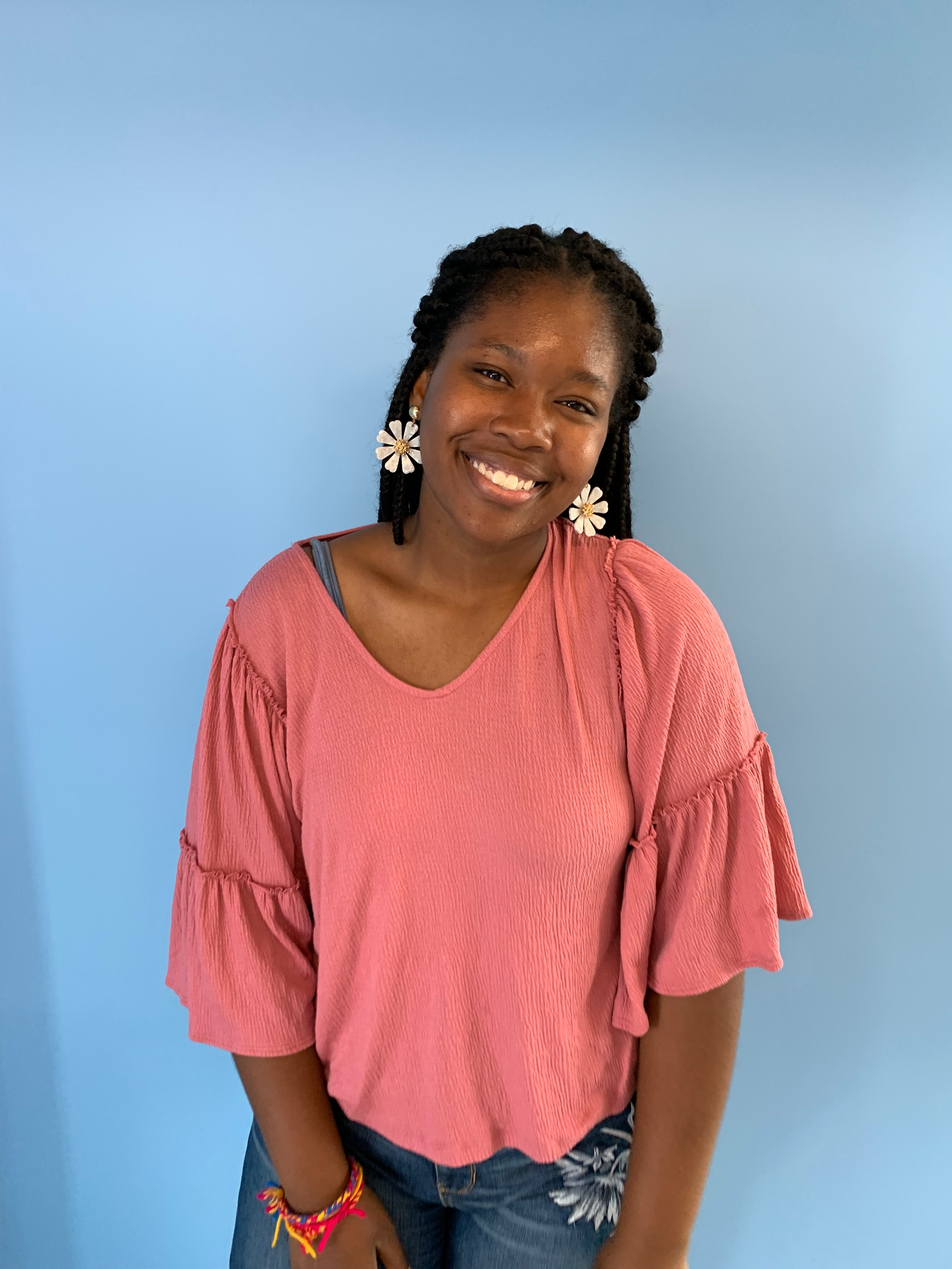
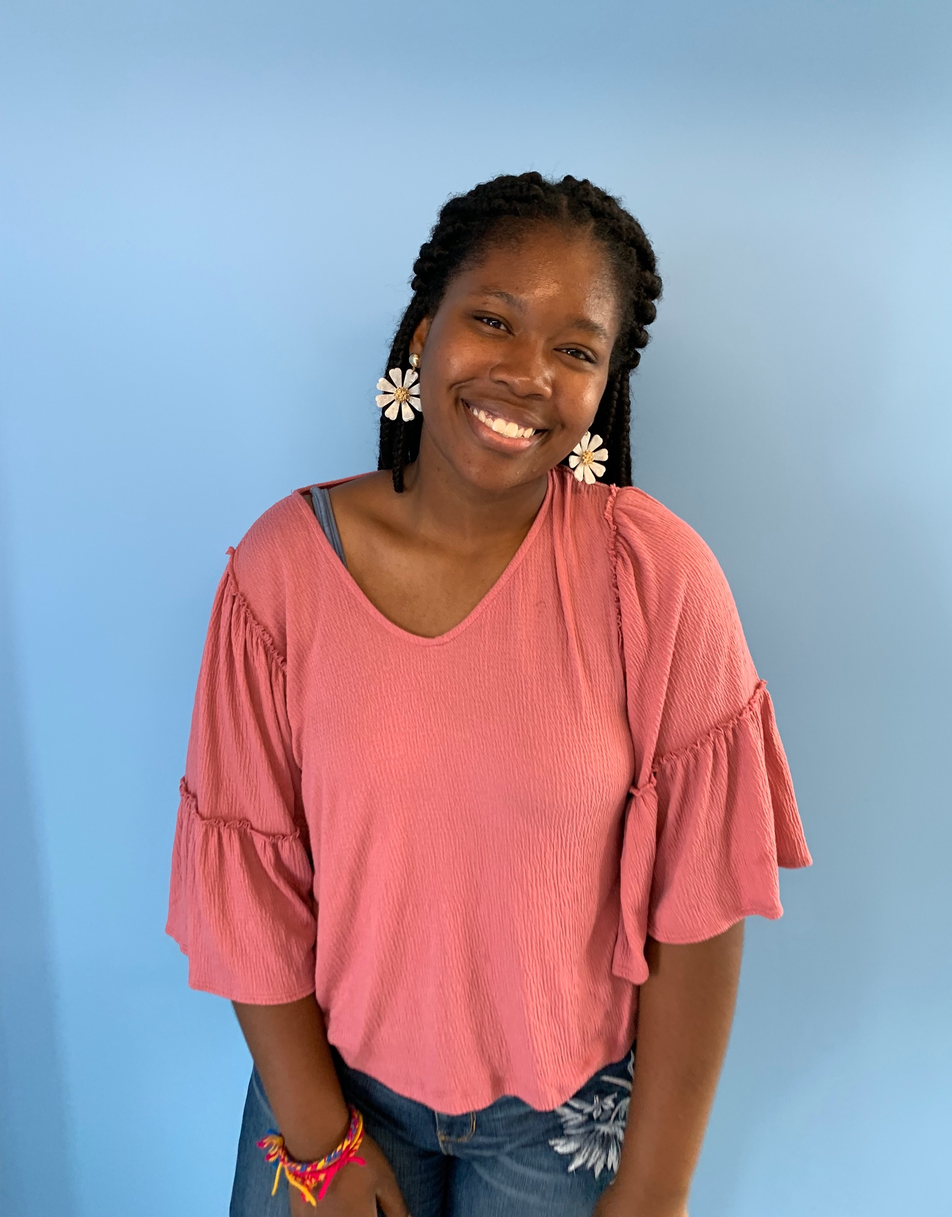
Sept 2 code, final final Olivia

diff --git a/index.html b/index.html
@@ -194,15 +194,25 @@
 							</div>
 
 						<div class= "pic">
-						<img src="/images/olivia_profile_pic.jpg" style="width:100%">
+						<img src="/images/olivia_profile_pic_2.jpg" style="width:100%">
 						</div>
 
 						<div class="title">
 							<div class= "category">
-							blah blah <br> blah blah <br> blah blah <br> 😍
+							President<br><br>blah blah <br> blah blah <br> blah blah <br> 😍
 						</div>
 						</div>
 
+							<!-- Social Icons -->
+
+							<div id="social_team">
+								<a href="https://www.oliviatai.com/" target="_blank">
+									<img src="images/website_icon_white.png" style="width:1.5vw">
+								</a>
+								<a href="mailto:oliviatai@college.harvard.edu">
+									<img src="images/social/mail.png" style="width:1.5vw">
+								</a>
+							</div>
 					</div>
 
 
@@ -216,13 +226,27 @@
 								</div>
 
 							<div class= "pic">
-							<img src="/images/alexis_queen_HDCwebsite.jpeg" style="width:100%">
+							<img src="/images/alexis_HDCwebsite.jpeg" style="width:100%">
 							</div>
 
 							<div class="title">
 								<div class= "category">
-									HBO enthusiast <br> FL moon, DC rising <br> big R&B gal <br> 👁👄👁
+									Co-Outreach Director<br><br>HBO enthusiast <br> FL moon, DC rising <br> big R&B gal <br> 👁👄👁
 								</div>
+							</div>
+
+							<!-- Social Icons -->
+
+							<div id="social_team">
+								<a href="http://www.alexisqueen.com/" target="_blank">
+									<img src="images/website_icon_white.png" style="width:1.5vw">
+								</a>
+								<a href="https://www.instagram.com/aqcreates/" target="_blank">
+									<img src="images/social/instagram.png" style="width:1.5vw">
+								</a>
+								<a href="mailto:alexisqueen@college.harvard.edu">
+									<img src="images/social/mail.png" style="width:1.5vw">
+								</a>
 							</div>
 					</div>
 
@@ -238,13 +262,24 @@
 								</div>
 
 							<div class= "pic">
-							<img src="/images/yasmeen_alfaqeeh_HDCwebsite.jpeg" style="width:100%">
+							<img src="/images/yasmeen_HDCwebsite_2.jpeg" style="width:100%">
 							</div>
 
 							<div class="title">
 								<div class= "category">
-								flower fanatic<br>spontaneous dancer<br>Pinterest mom<br>🧚🏽♀
+								Social Media Director<br><br>flower fanatic<br>spontaneous dancer<br>Pinterest mom<br>🧚🏽♀
 							</div>
+							</div>
+
+							<!-- Social Icons -->
+
+							<div id="social_team">
+								<a href="https://www.instagram.com/y_alfaqeeh/" target="_blank">
+									<img src="images/social/instagram.png" style="width:1.5vw">
+								</a>
+								<a href="mailto:yalfaqeeh@college.harvard.edu">
+									<img src="images/social/mail.png" style="width:1.5vw">
+								</a>
 							</div>
 
 					</div>
@@ -271,9 +306,24 @@
 
 						<div class="title">
 							<div class= "category">
-								yellow lover<br>Minnesota native<br>most likely to sing when no one asked<br>🦜
+								Comp  Director<br><br>yellow lover<br>Minnesota native<br>most likely to sing when no one asked<br>🦜
 						</div>
 						</div>
+
+						<!-- Social Icons -->
+
+						<div id="social_team">
+							<a href="https://uzongwu.com/" target="_blank">
+								<img src="images/website_icon_white.png" style="width:1.5vw">
+							</a>
+							<a href="https://www.instagram.com/uzotheartist/?hl=en" target="_blank">
+								<img src="images/social/instagram.png" style="width:1.5vw">
+							</a>
+							<a href="mailto:uzongwu@college.harvard.edu">
+								<img src="images/social/mail.png" style="width:1.5vw">
+							</a>
+						</div>
+						
 					</div>
 
 					<div class="col-md-3">
@@ -292,8 +342,22 @@
 
 							<div class="title">
 								<div class= "category">
-									lifelong crafter<br>socal native<br>professional amateur<br>👀
+									Events Director<br><br>lifelong crafter<br>socal native<br>professional amateur<br>👀
 							</div>
+							</div>
+
+							<!-- Social Icons -->
+
+							<div id="social_team">
+								<a href="ehhong.github.io" target="_blank">
+									<img src="images/website_icon_white.png" style="width:1.5vw">
+								</a>
+								<a href="https://www.instagram.com/elyhng/?hl=en" target="_blank">
+									<img src="images/social/instagram.png" style="width:1.5vw">
+								</a>
+								<a href="mailto:emilyhong@college.harvard.edu">
+									<img src="images/social/mail.png" style="width:1.5vw">
+								</a>
 							</div>
 
 					</div>
@@ -314,9 +378,23 @@
 
 									<div class="title">
 										<div class= "category">
-											craigslist addict<br>young grandma<br>wong kar wai fan<br>🧻🧧
+											Co-Outreach Director<br><br>craigslist addict<br>young grandma<br>wong kar wai fan<br>🧻🧧
 									</div>
 									</div>
+
+									<!-- Social Icons -->
+
+							<div id="social_team">
+								<a href="https://wendy6yu.github.io/" target="_blank">
+									<img src="images/website_icon_white.png" style="width:1.5vw">
+								</a>
+								<a href="https://www.instagram.com/wendy6yu/" target="_blank">
+									<img src="images/social/instagram.png" style="width:1.5vw">
+								</a>
+								<a href="mailto:wendy_yu@college.harvard.edu">
+									<img src="images/social/mail.png" style="width:1.5vw">
+								</a>
+							</div>
 
 						</div>
 					</div>

diff --git a/assets/css/main.css b/assets/css/main.css
@@ -335,6 +335,7 @@ ul {
     position: absolute;
     color: white;
     margin-top: -3vh;
+    text-align:left;
 
 }
 
@@ -363,6 +364,7 @@ ul {
 
 #team .col-md-3 {
     margin: auto 1.5vw;
+    text-align: center;
 }
 
 
@@ -419,6 +421,21 @@ ul {
         .col-md-3:hover .title {
         opacity: 1;
         }
+
+/* ------Social_Team icons------ */
+
+#social_team{
+    position: relative;
+    z-index: 400;
+    bottom: 0;
+    margin: auto;
+    width: 50%;
+}
+
+#social_team img{
+    margin: 3vh 0.5vw 0 0.5vw;
+}
+
 
 
 
